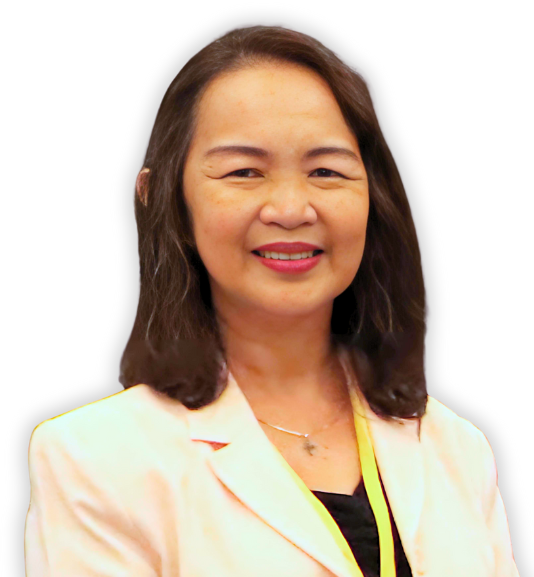
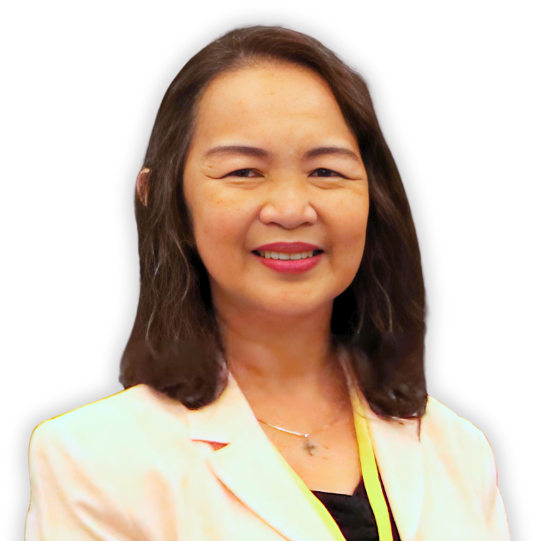
change Doc Sonia's picture

diff --git a/docs/speakers.html b/docs/speakers.html
@@ -226,7 +226,7 @@ ul.task-list li input[type="checkbox"] {
 <div class="quarto-layout-cell" style="flex-basis: 33.3%;justify-content: flex-start;">
 <div class="quarto-figure quarto-figure-center">
 <figure class="figure">
-<p><a href="./speakers/sonia.html"><img src="speakers/img/docsonia_ritm.png" class="img-fluid figure-img" width="850" alt="Sonia B. Sia, MD, FPAFP, FPSP, MPM"></a></p>
+<p><a href="./speakers/sonia.html"><img src="speakers/img/docsonia_ritm.png" class="img-fluid figure-img" width="857" alt="Sonia B. Sia, MD, FPAFP, FPSP, MPM"></a></p>
 <figcaption>Sonia B. Sia, MD, FPAFP, FPSP, MPM</figcaption>
 </figure>
 </div>
